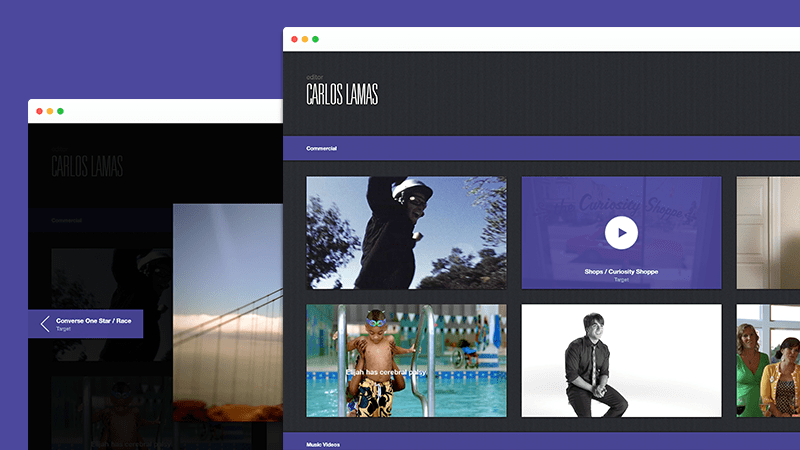
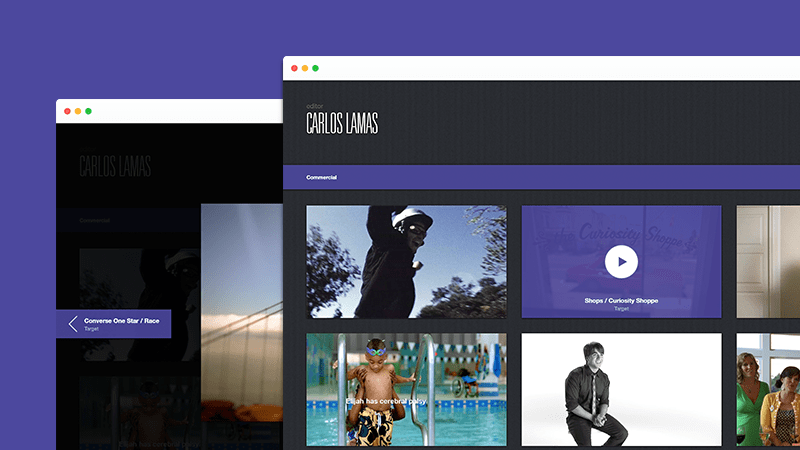
Update 2020-07-22T03:08:51.281Z

diff --git a/index.html b/index.html
@@ -34,7 +34,12 @@
         <li class="onehub card highlight">
           <a href="/onehub/" class="card-action-area">
             <div class="card-image">
-              <img src="/images/onehub/onehub-card@2x.png" alt="Onehub – Cloud storage redefined.">
+              <img src="/images/onehub/onehub-teaser~800.png"
+                   srcset="/images/onehub/onehub-teaser~400.png 400w,
+                           /images/onehub/onehub-teaser~800.png 800w,
+                           /images/onehub/onehub-teaser~1600.png 1600w,
+                           /images/onehub/onehub-teaser~3200.png 3200w"
+                   alt="Onehub – teaser">
             </div>
             <div class="card-content">
               <h3>Onehub</h3>
@@ -45,7 +50,11 @@
         <li class="marshal card">
           <a href="/marshal/" class="card-action-area">
             <div class="card-image">
-              <img src="/images/marshal/marshal-card@2x.png" alt="Marshal - Know what you're sharing.">
+              <img src="/images/marshal/marshal-teaser~800.png"
+                   srcset="/images/marshal/marshal-teaser~400.png 400w,
+                           /images/marshal/marshal-teaser~800.png 800w,
+                           /images/marshal/marshal-teaser~1600.png 1600w"
+                   alt="Marshal – teaser">
             </div>
             <div class="card-content">
               <h3>Marshal</h3>
@@ -127,7 +136,11 @@
         <li class="iowa-actors card">
           <a href="/iowa-actors/" class="card-action-area">
             <div class="card-image">
-              <img src="/images/iowa-actors/iowa-actors-card@2x.png" alt="Iowa Actors – A diverse group of thirteen exciting new actors.">
+              <img src="/images/iowa-actors/iowa-actors-teaser~800.png"
+                   srcset="/images/iowa-actors/iowa-actors-teaser~400.png 400w,
+                           /images/iowa-actors/iowa-actors-teaser~800.png 800w,
+                           /images/iowa-actors/iowa-actors-teaser~1600.png 1600w"
+                   alt="Iowa Actors – teaser">
             </div>
             <div class="card-content">
               <h3>Iowa Actors</h3>

diff --git a/stylesheets/styles.css b/stylesheets/styles.css
@@ -1095,24 +1095,15 @@ nav a {
     list-style-type: none;
     margin: 0;
     padding: 0; }
-  .projects .card.onehub .card-image img {
-    -o-object-position: 0 0;
-       object-position: 0 0; }
-  .projects .card.kenny-meyers .card-image img {
-    -o-object-position: 50% 50%;
-       object-position: 50% 50%; }
-  .projects .card.marshal .card-image img {
-    -o-object-position: 100% 100%;
-       object-position: 100% 100%; }
-  .projects .card.r8r .card-image img {
+  .projects .card.iowa-actors .card-image img, .projects .card.r8r .card-image img {
     -o-object-position: 100% 0;
        object-position: 100% 0; }
   @media (min-width: 768px) {
     .projects .projects-list {
       grid-auto-flow: dense;
-      grid-auto-rows: minmax(18rem, 0.375fr);
-      grid-template-columns: repeat(auto-fit, minmax(20rem, 1fr));
+      grid-auto-rows: minmax(14rem, 0.275fr);
       grid-gap: 2rem;
+      grid-template-columns: repeat(auto-fit, minmax(20rem, 1fr));
       grid-template-rows: 1fr; }
       .projects .projects-list .card.carlos-lamas .card-content {
         background: #4C489E; }
@@ -1146,15 +1137,16 @@ nav a {
         grid-row-end: span 2; } }
   @media (min-width: 1366px) {
     .projects .projects-list {
-      grid-auto-rows: minmax(18rem, 0.375fr);
-      grid-template-columns: repeat(auto-fit, minmax(20rem, 1fr)); }
+      grid-auto-rows: minmax(16rem, 0.275fr);
+      grid-template-rows: .85fr; }
       .projects .projects-list > li.highlight {
         grid-column: span 3;
         grid-row: span 2; } }
   @media (min-width: 1600px) {
     .projects .projects-list {
-      grid-auto-rows: minmax(22rem, 0.375fr);
-      grid-template-columns: repeat(auto-fit, minmax(24rem, 1fr)); } }
+      grid-auto-rows: minmax(20rem, 0.275fr);
+      grid-template-columns: repeat(auto-fit, minmax(24rem, 1fr));
+      grid-template-rows: 1fr; } }
 
 .ribbon {
   display: flex;
